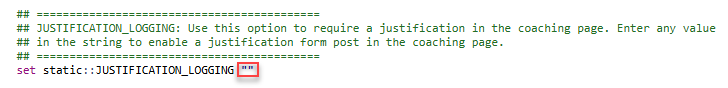
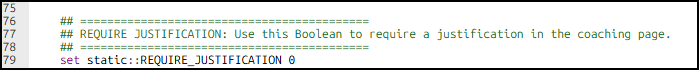
M2 update screenshots

Changed region(s): [[0.0, 0.0, 1.0, 1.0], [0.0, 0.5714, 0.5408, 0.9429]]

diff --git a/module2/lab7.rst b/module2/lab7.rst
@@ -19,12 +19,12 @@ Modify User Coaching iRule
    .. image:: ./images/user-justification-2.png
       :align: left
 
-#. Below that, notice that the **JUSTIFICATION_LOGGING** variable is set to **""** (empty string).
+#. Below that, notice that the **REQUIRE_JUSTIFICATION** variable is set to ``0``.
 
    .. image:: ./images/user-justification-3.png
       :align: left
 
-#. In between the double quotation marks, enter ``on`` to enable this feature.
+#. Change the ``0`` to ``1`` to enable this feature.
 
    .. image:: ./images/user-justification-4.png
       :align: left
